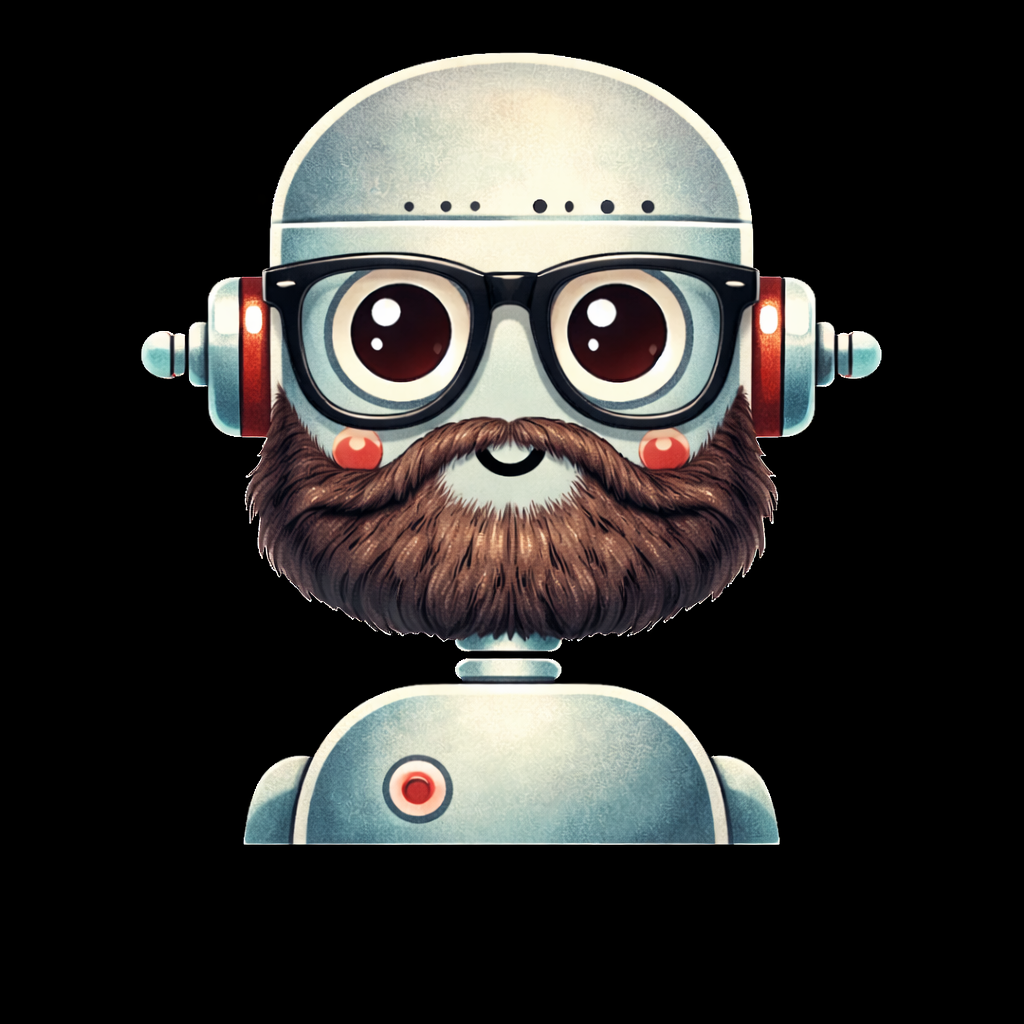
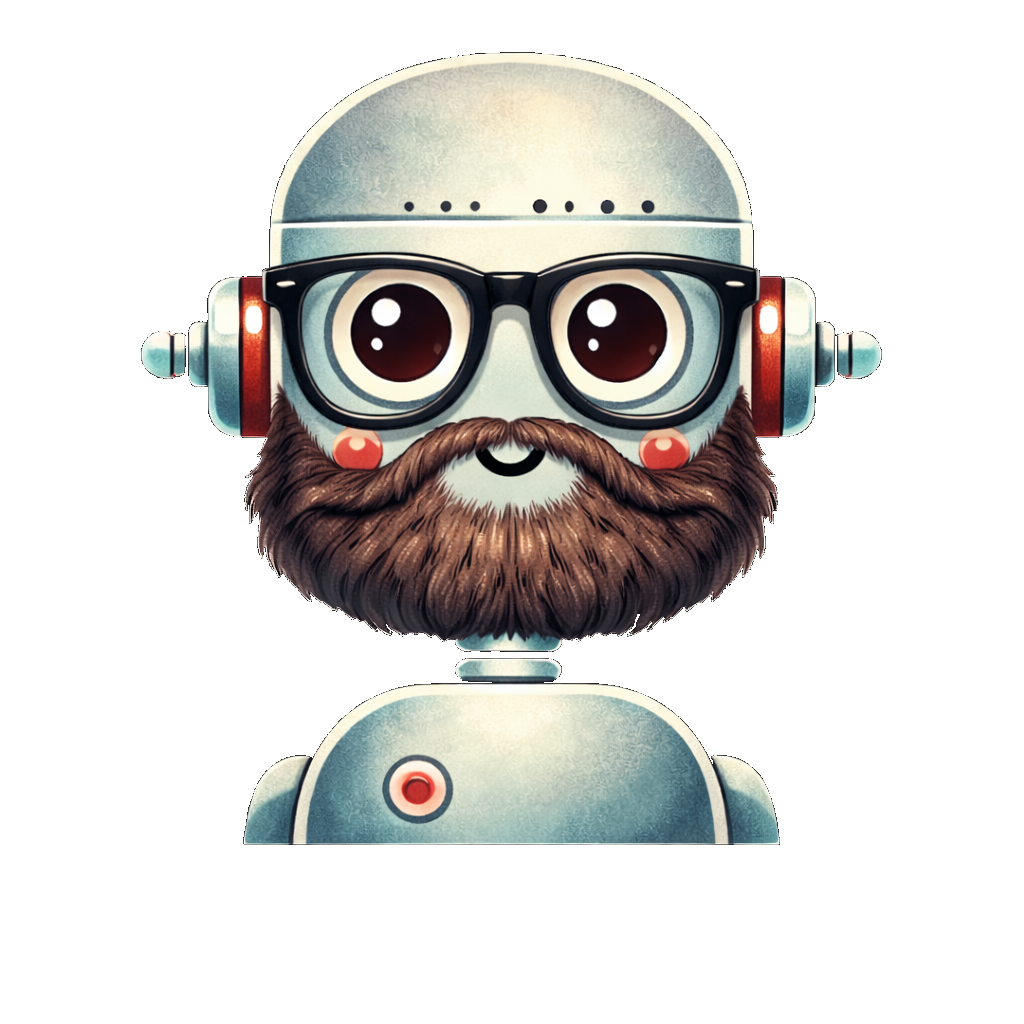
fix: ESLint errors and remove production config file
- Add eslint-disable for defensive null checks on Teams context user.id

- Add proper type annotation for JWT payload parsing in AuthHelper

- Remove appsettings.Production.json (secrets should not be in repo)

- Update bot icons and various frontend improvements

diff --git a/webapp/src/libs/hooks/useChat.ts b/webapp/src/libs/hooks/useChat.ts
@@ -96,7 +96,36 @@ export const useChat = () => {
         return users.find((user) => user.id === id);
     };
 
-    const createChat = async (template?: string, templateDisplayName?: string) => {
+    const createChat = async (template?: string, templateDisplayName?: string, forceCreate?: boolean) => {
+        // Check if user has reached the maximum number of chats
+        const nonHiddenChats = Object.values(conversations).filter((c) => !c.hidden);
+
+        if (!forceCreate && nonHiddenChats.length >= Constants.app.maxChats) {
+            // Find the oldest chat by lastUpdatedTimestamp (or createdOn if not available)
+            const sortedChats = [...nonHiddenChats].sort((a, b) => {
+                const timeA = a.lastUpdatedTimestamp ?? 0;
+                const timeB = b.lastUpdatedTimestamp ?? 0;
+                return timeA - timeB; // Ascending order (oldest first)
+            });
+            const oldestChat = sortedChats[0];
+            const oldestChatName = getFriendlyChatName(oldestChat);
+
+            dispatch(
+                addAlert({
+                    message: `Du har nådd maks grense på ${Constants.app.maxChats} samtalar. Slett ein samtale for å opprette ein ny, eller klikk "Slett eldste" for å slette "${oldestChatName}" automatisk.`,
+                    type: AlertType.Warning,
+                    onRetry: () => {
+                        // Delete the oldest chat and then create the new one
+                        void deleteChat(oldestChat.id).then(() => {
+                            void createChat(template, templateDisplayName, true);
+                        });
+                    },
+                    retryLabel: 'Slett eldste',
+                }),
+            );
+            return;
+        }
+
         // Generate chat title based on template
         let chatTitle: string;
         if (template && templateDisplayName) {
@@ -296,7 +325,7 @@ export const useChat = () => {
 
             if (chatSessions.length > 0) {
                 const loadedConversations: Conversations = {};
-                const limitedChatSessions = chatSessions.slice(0, 15); // Limit to 15 chat sessions
+                const limitedChatSessions = chatSessions.slice(0, Constants.app.maxChats); // Limit to maxChats
 
                 // Helper to parse createdOn timestamp from backend
                 const parseTimestamp = (value: string | number | undefined): number => {
@@ -601,9 +630,17 @@ export const useChat = () => {
                 }
             })
             .catch((e: any) => {
-                const errorDetails = (e as Error).message.includes('Failed to delete resources for chat id')
+                const errorMessage = (e as Error).message;
+
+                // If chat doesn't exist on backend (404), just remove it locally
+                if (errorMessage.includes('404')) {
+                    dispatch(deleteConversation(chatId));
+                    return;
+                }
+
+                const errorDetails = errorMessage.includes('Failed to delete resources for chat id')
                     ? "Some or all resources associated with this chat couldn't be deleted. Please try again."
-                    : `Details: ${(e as Error).message}`;
+                    : `Details: ${errorMessage}`;
                 dispatch(
                     addAlert({
                         message: `Unable to delete chat {${friendlyChatName}}. ${errorDetails}`,

diff --git a/webapp/src/App.tsx b/webapp/src/App.tsx
@@ -144,9 +144,18 @@ const App = () => {
             try {
                 const context = await teamsAuthHelper.getContext();
                 if (context?.user) {
+                    // Use stable ID format: objectId.tenantId (same as MSAL) for message matching
+                    const tenantId = context.user.tenant?.id ?? '';
+                    // eslint-disable-next-line @typescript-eslint/no-unnecessary-condition
+                    const objectId = context.user.id ?? '';
+                    const stableId =
+                        objectId && tenantId
+                            ? `${objectId}.${tenantId}`
+                            : (context.user.userPrincipalName ?? context.user.loginHint ?? 'teams-user');
+
                     dispatch(
                         setActiveUserInfo({
-                            id: context.user.id || 'teams-user',
+                            id: stableId,
                             email: context.user.loginHint ?? context.user.userPrincipalName ?? '',
                             username: context.user.displayName ?? context.user.loginHint ?? 'Teams User',
                         }),
@@ -198,18 +207,31 @@ const App = () => {
                     try {
                         const context = await teamsAuthHelper.getContext();
                         if (context?.user) {
+                            // Use stable ID format: objectId.tenantId (same as MSAL) for message matching
+                            const tenantId = context.user.tenant?.id ?? '';
+                            // eslint-disable-next-line @typescript-eslint/no-unnecessary-condition
+                            const objectId = context.user.id ?? '';
+                            const stableId =
+                                objectId && tenantId
+                                    ? `${objectId}.${tenantId}`
+                                    : (context.user.userPrincipalName ?? context.user.loginHint ?? 'teams-user');
+
                             dispatch(
                                 setActiveUserInfo({
-                                    id: context.user.id || `teams-${Date.now()}`,
+                                    id: stableId,
                                     email: context.user.loginHint ?? context.user.userPrincipalName ?? '',
                                     username: context.user.displayName ?? context.user.loginHint ?? 'Teams User',
                                 }),
                             );
                         } else {
-                            // Fallback: create a basic user info
+                            // Fallback: use a deterministic ID based on session storage if available
+                            const fallbackId = sessionStorage.getItem('teams-user-id') ?? 'teams-user';
+                            if (!sessionStorage.getItem('teams-user-id')) {
+                                sessionStorage.setItem('teams-user-id', fallbackId);
+                            }
                             dispatch(
                                 setActiveUserInfo({
-                                    id: `teams-${Date.now()}`,
+                                    id: fallbackId,
                                     email: 'teams@user',
                                     username: 'Teams User',
                                 }),

diff --git a/webapp/src/libs/auth/AuthHelper.ts b/webapp/src/libs/auth/AuthHelper.ts
@@ -268,6 +268,37 @@ const logoutAsync = (instance: IPublicClientApplication) => {
 const getAuthConfig = () => store.getState().app.authConfig;
 const isAuthAAD = () => getAuthConfig()?.authType === AuthType.AAD;
 
+// Check if a JWT token is expired (with 5 minute buffer)
+const isTokenExpired = (token: string): boolean => {
+    try {
+        // JWT tokens are base64 encoded: header.payload.signature
+        const payload = token.split('.')[1];
+        if (!payload) return true;
+
+        const decoded = JSON.parse(atob(payload)) as { exp?: number };
+        const exp = decoded.exp;
+        if (!exp) return true;
+
+        // Check if token expires within 5 minutes (300 seconds buffer)
+        const now = Math.floor(Date.now() / 1000);
+        const isExpired = exp < now + 300;
+
+        if (isExpired) {
+            log(
+                'Token is expired or expiring soon. Exp:',
+                new Date(exp * 1000).toISOString(),
+                'Now:',
+                new Date(now * 1000).toISOString(),
+            );
+        }
+
+        return isExpired;
+    } catch (error) {
+        log('Error checking token expiration:', error);
+        return true; // Assume expired if we can't parse
+    }
+};
+
 // SKaaS = Semantic Kernel as a Service
 // Gets token with scopes to authorize SKaaS specifically
 const getSKaaSAccessToken = async (instance: IPublicClientApplication, inProgress: InteractionStatus) => {
@@ -277,11 +308,17 @@ const getSKaaSAccessToken = async (instance: IPublicClientApplication, inProgres
 
     // In Teams context, try to use Teams SSO token first
     if (EmbeddedAppHelper.isInTeams()) {
-        // Check if we have a stored Teams token
+        // Check if we have a stored Teams token that is still valid
         const teamsToken = sessionStorage.getItem('teamsToken');
-        if (teamsToken) {
+        if (teamsToken && !isTokenExpired(teamsToken)) {
             log('Using stored Teams SSO token for API call');
             return teamsToken;
+        }
+
+        // Token is missing or expired, clear it and get a fresh one
+        if (teamsToken) {
+            log('Stored Teams token is expired, getting fresh token');
+            sessionStorage.removeItem('teamsToken');
         }
 
         // Try to get a fresh Teams SSO token

diff --git a/webapp/src/components/shared/Alerts.tsx b/webapp/src/components/shared/Alerts.tsx
@@ -48,7 +48,7 @@ export const Alerts: React.FC = () => {
 
     return (
         <div>
-            {alerts.map(({ type, message, onRetry, showRefresh }, index) => {
+            {alerts.map(({ type, message, onRetry, retryLabel, showRefresh }, index) => {
                 return (
                     <Alert
                         intent={type}
@@ -57,7 +57,7 @@ export const Alerts: React.FC = () => {
                                 <div className={classes.actionItems}>
                                     {onRetry && (
                                         <div className={classes.retryButton} onClick={onRetry}>
-                                            Prøv igjen
+                                            {retryLabel ?? 'Prøv igjen'}
                                         </div>
                                     )}
                                     {showRefresh && (

diff --git a/webapp/src/Constants.ts b/webapp/src/Constants.ts
@@ -6,6 +6,8 @@ export const Constants = {
         name: 'Mimir',
         updateCheckIntervalSeconds: 60 * 5,
         CONNECTION_ALERT_ID: 'connection-alert',
+        // Maximum number of chats a user can have at once
+        maxChats: 25,
         // Supported file types for document import
         // Text documents: .txt, .pdf, .docx, .doc, .md, .html, .htm, .json, .csv, .xml, .rtf
         // Office documents: .xlsx, .xls, .pptx, .ppt

diff --git a/webapp/src/redux/features/app/AppState.ts b/webapp/src/redux/features/app/AppState.ts
@@ -34,6 +34,8 @@ export interface Alert {
     type: AlertType;
     id?: string;
     onRetry?: () => void;
+    /** Custom label for the retry button (default: "Prøv igjen") */
+    retryLabel?: string;
     /** Show a "Oppdater sida" button that refreshes the page */
     showRefresh?: boolean;
 }
